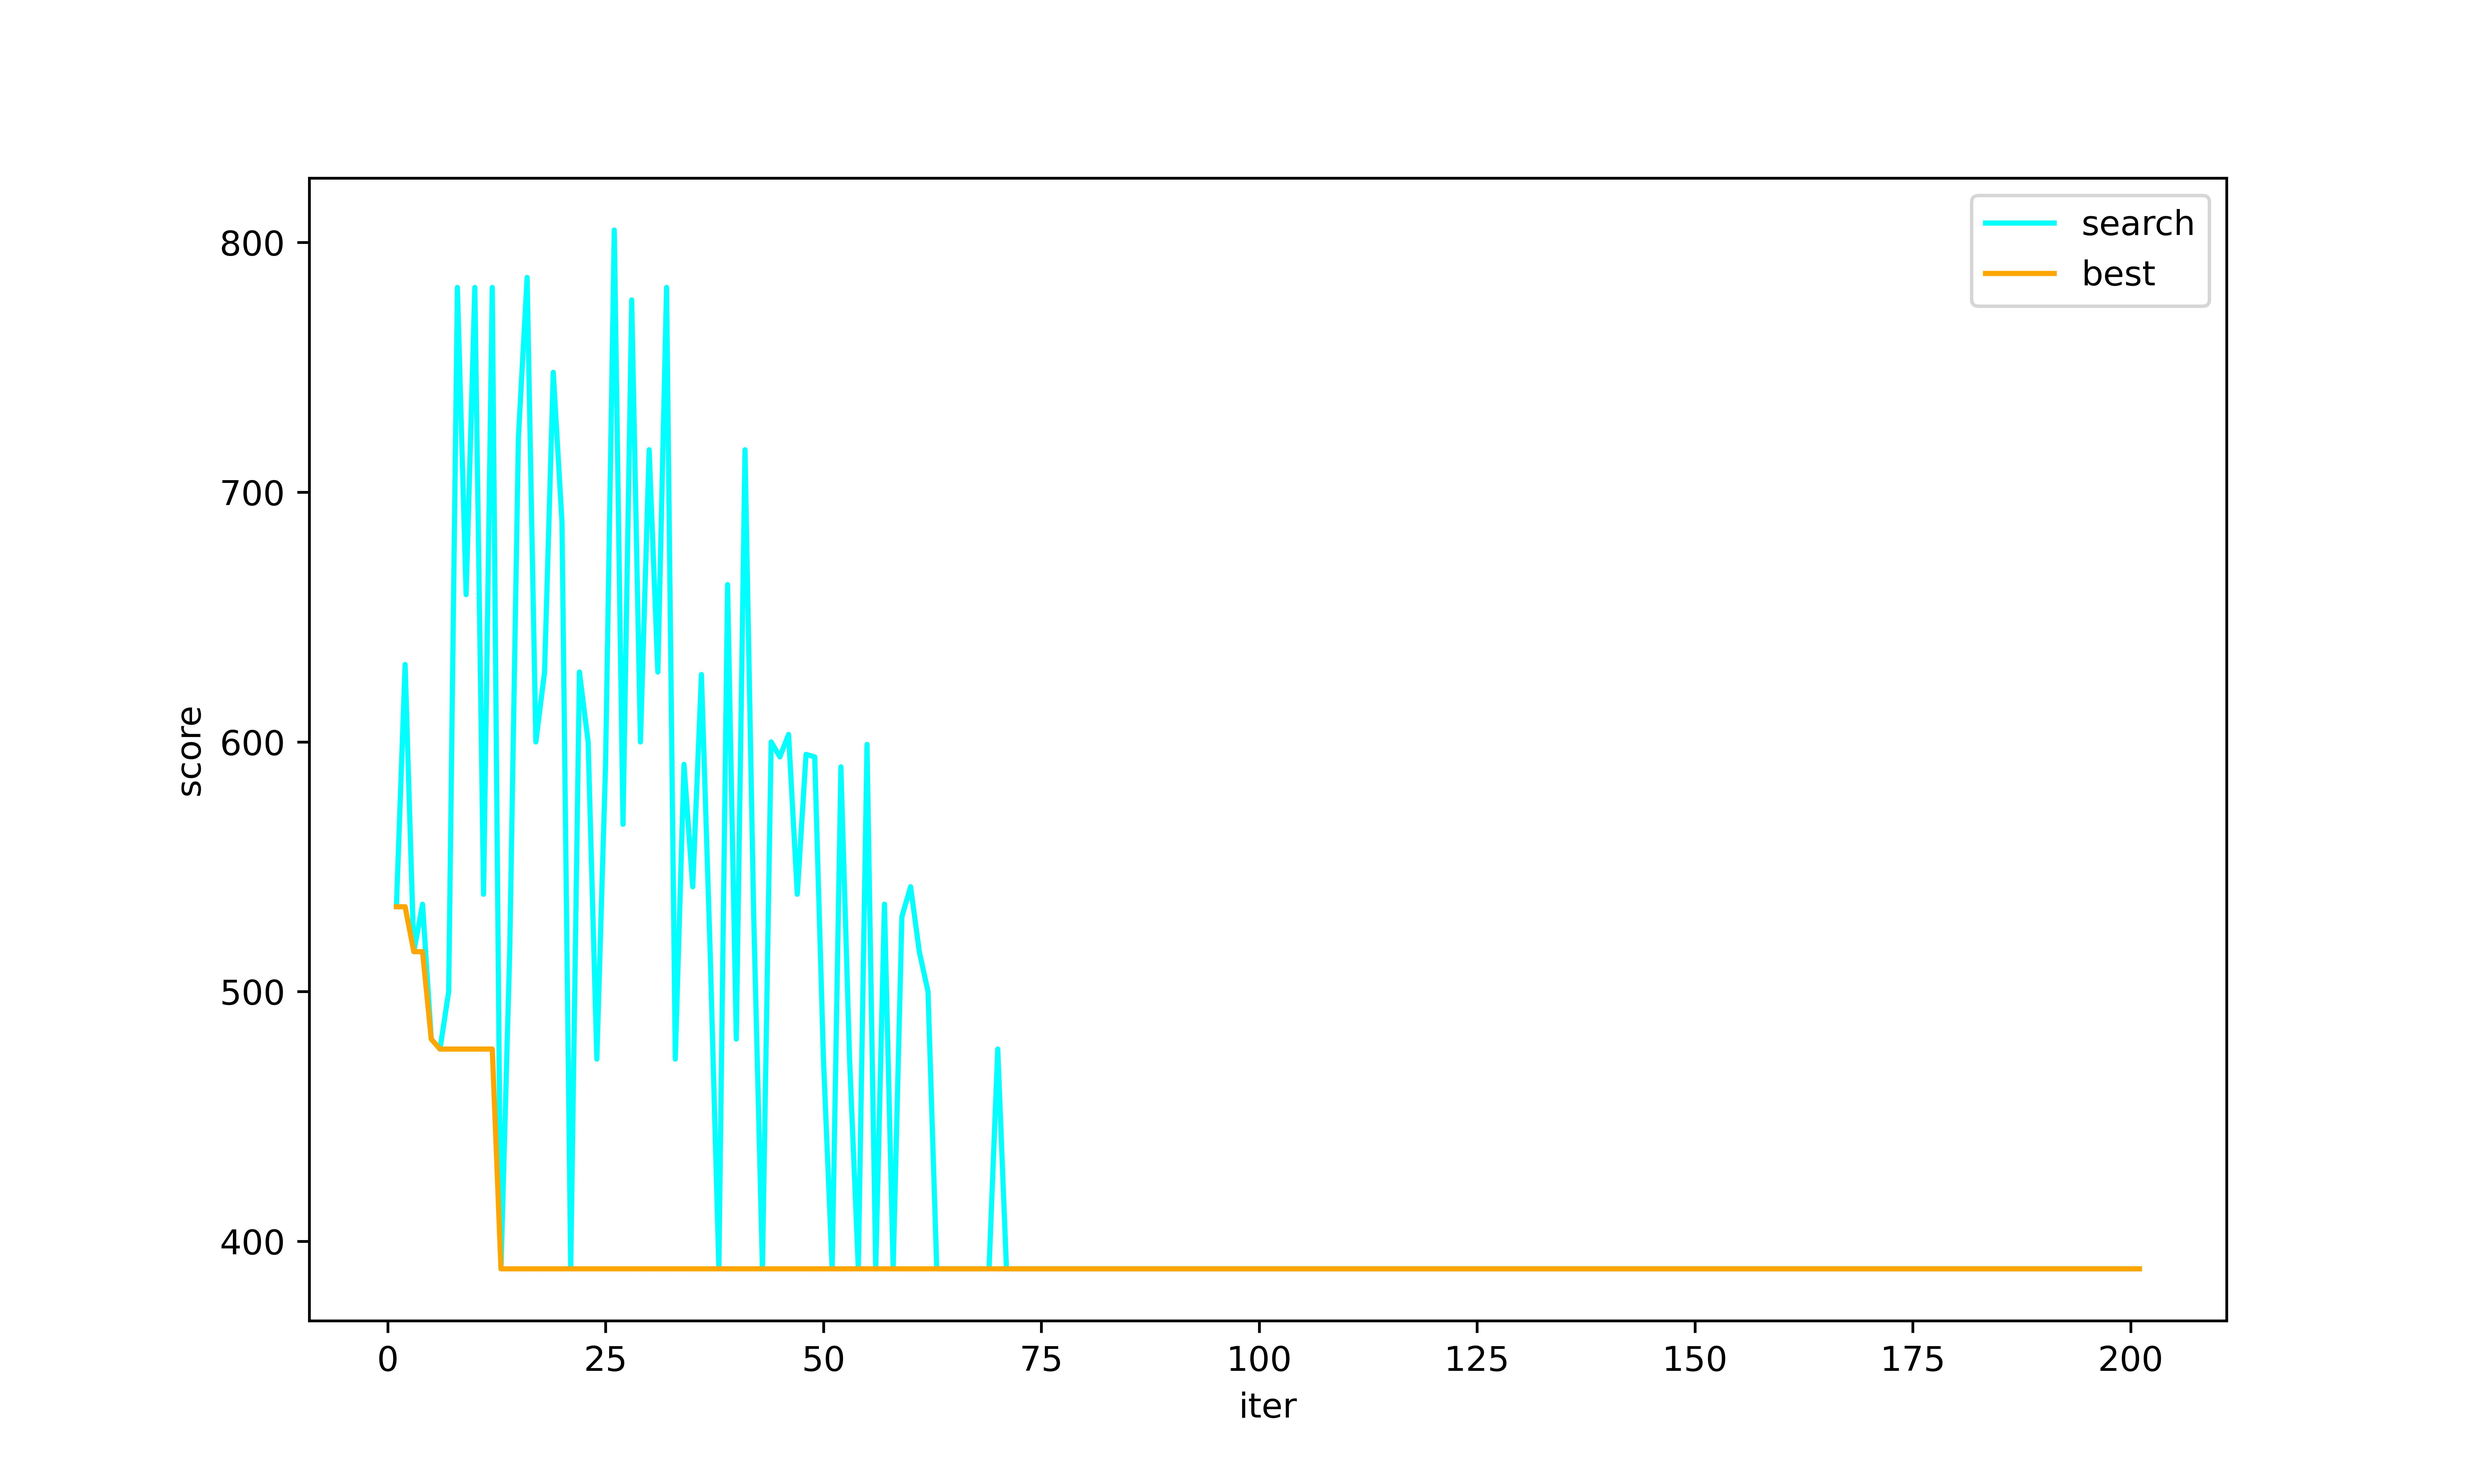
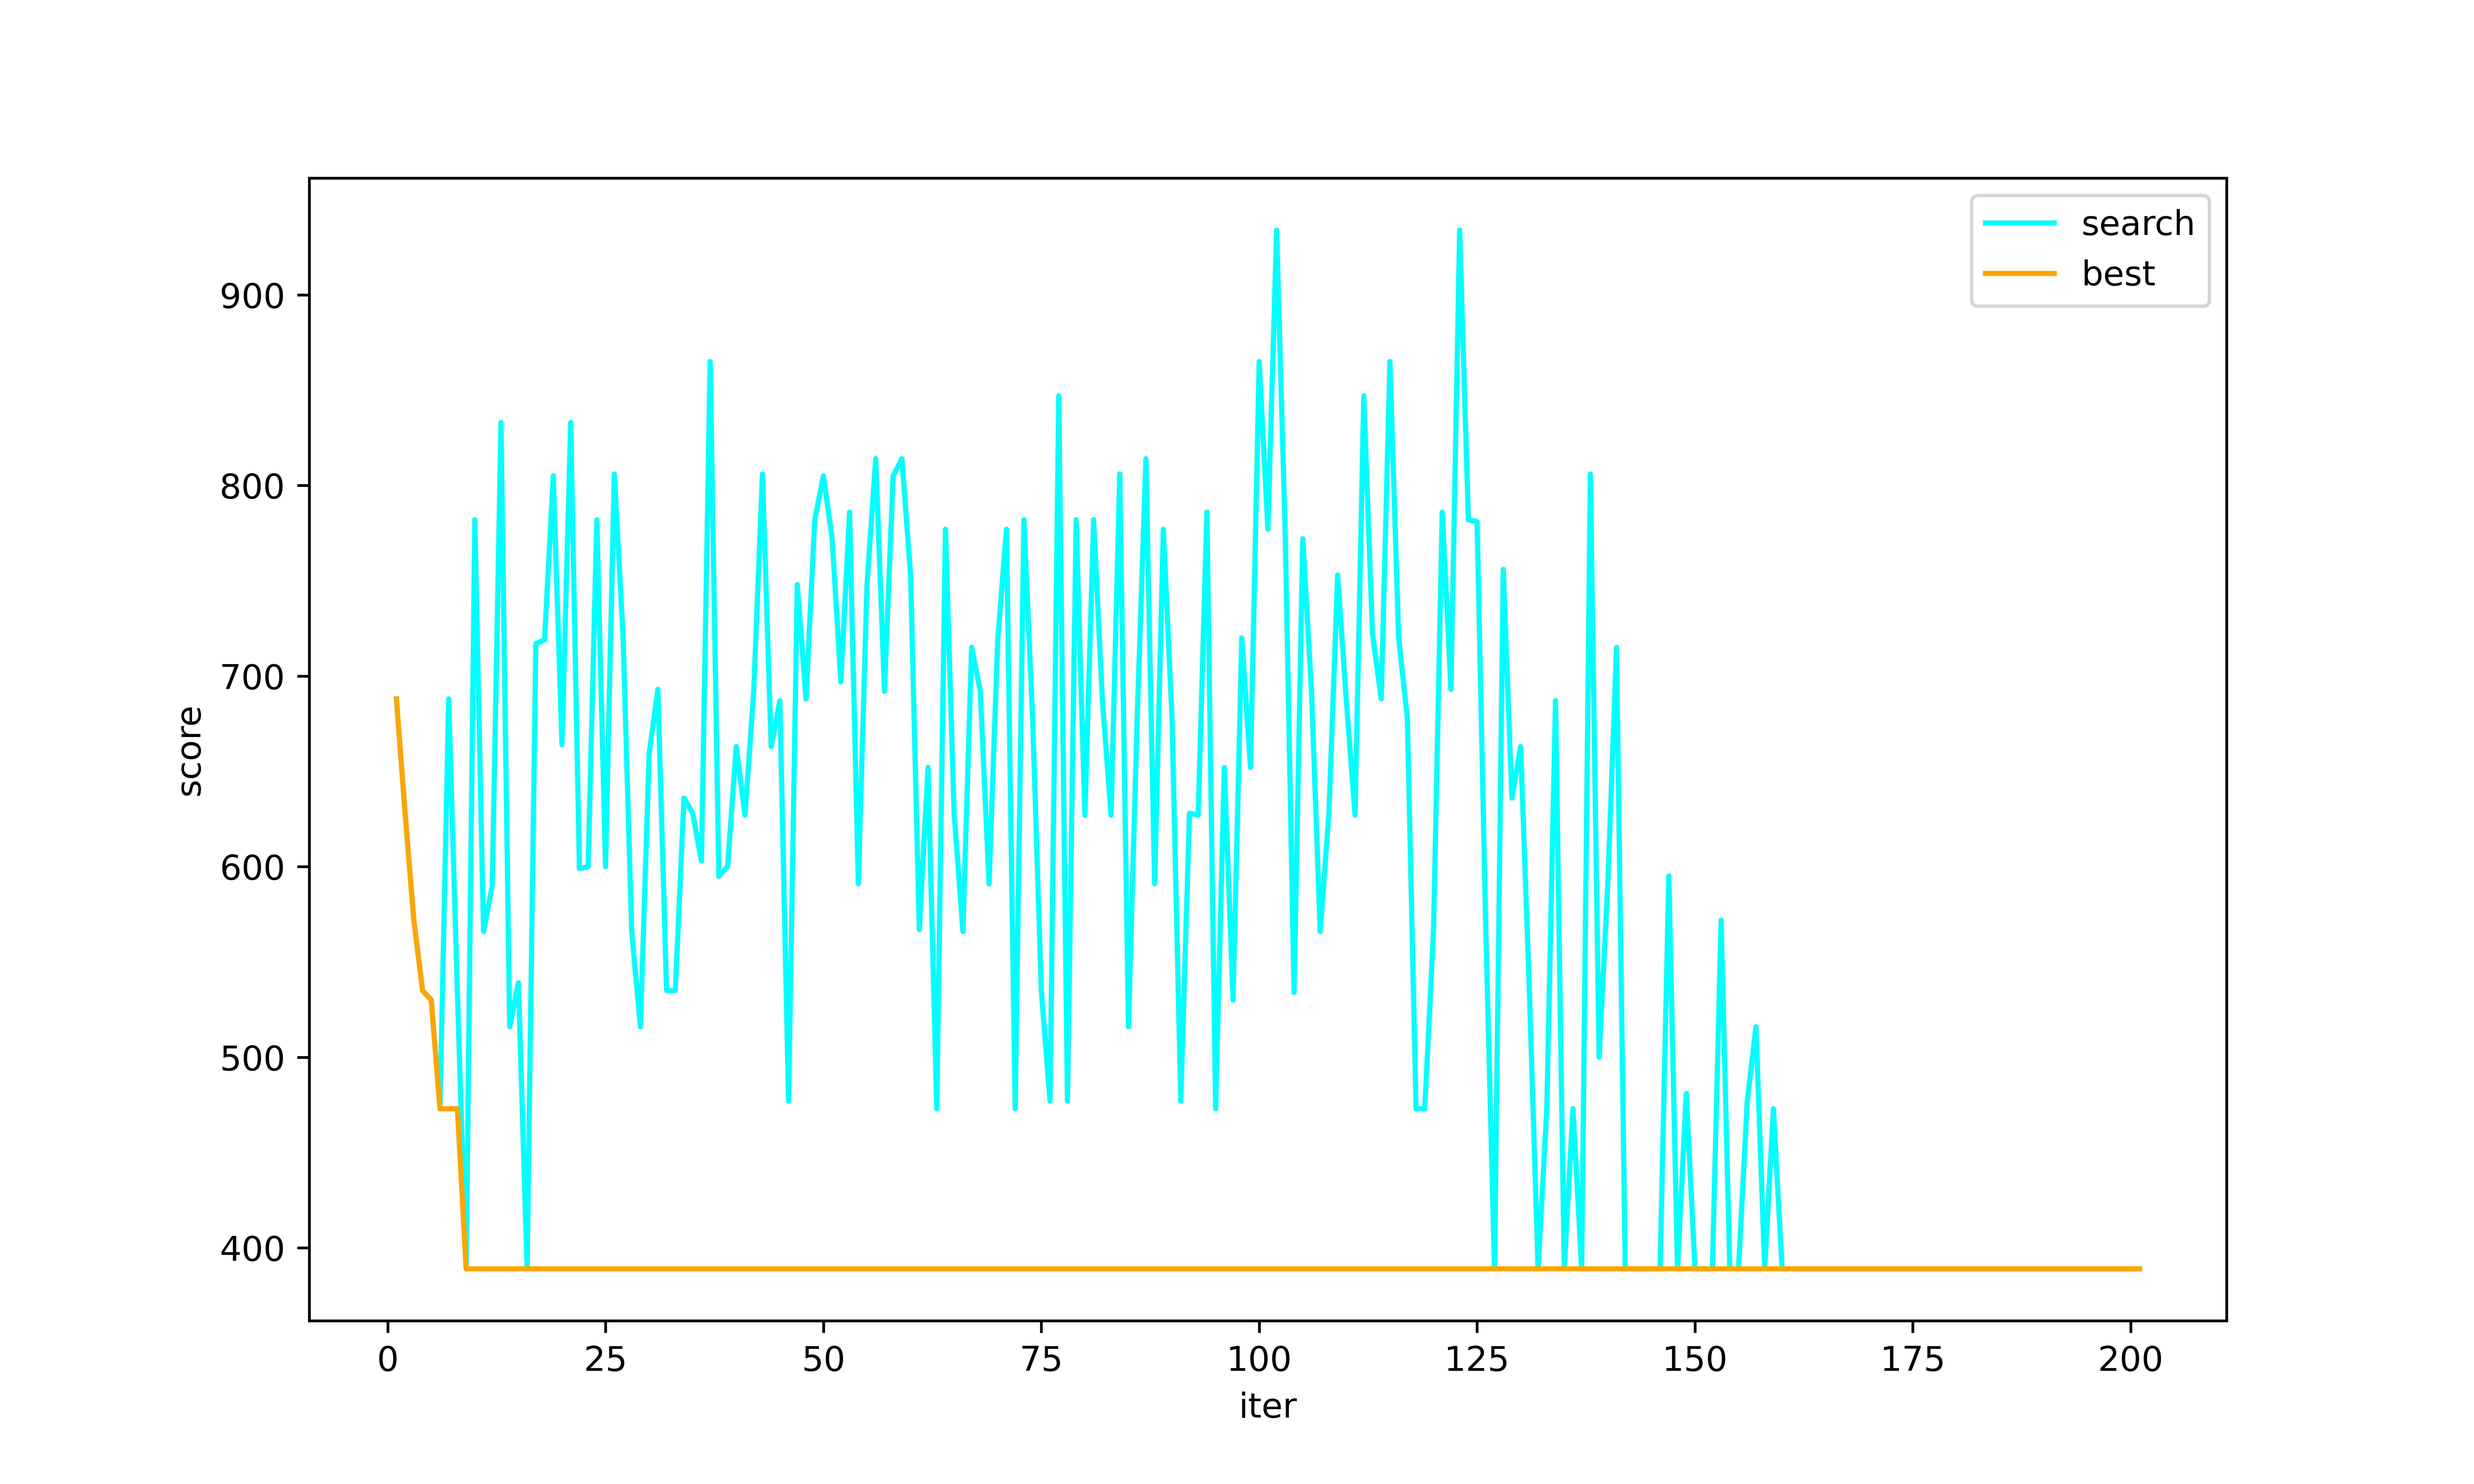
SA & GD

diff --git a/src/assignment6/assignment6.md b/src/assignment6/assignment6.md
@@ -106,8 +106,9 @@ for (int out=0; out<outSearchTime; out++) {
 
         } else {
             Double rd = r.nextDouble();
+            double p = Math.exp(-Math.abs(currentBestScore - currentScore) / T);
 
-            if(Math.exp((currentScore-bestScore) / T) > rd) {
+            if(p > rd) {
                 currentBestPath = currentPath;
                 currentBestScore = currentScore;
                 break;
